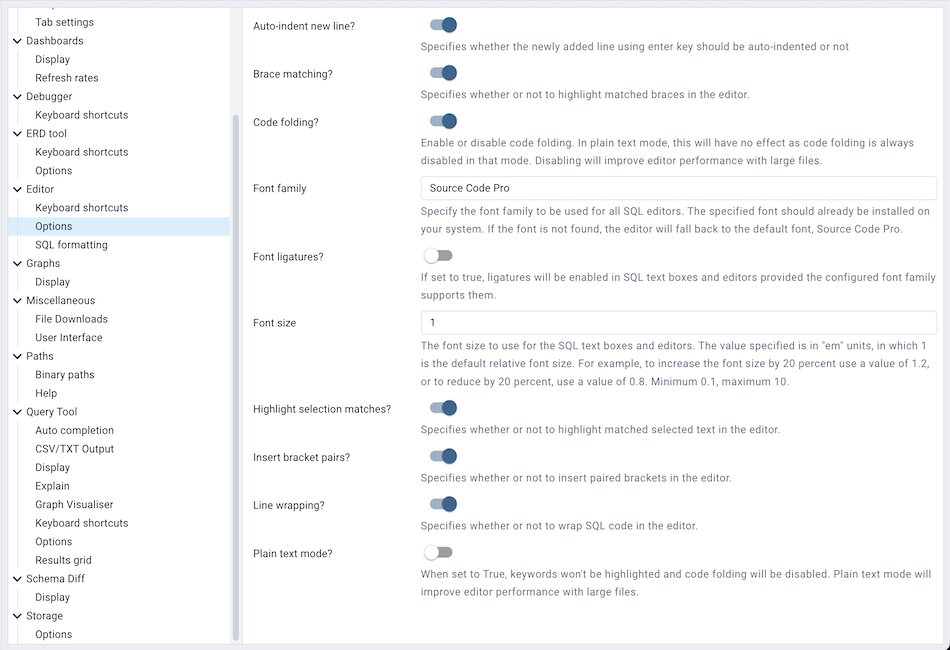
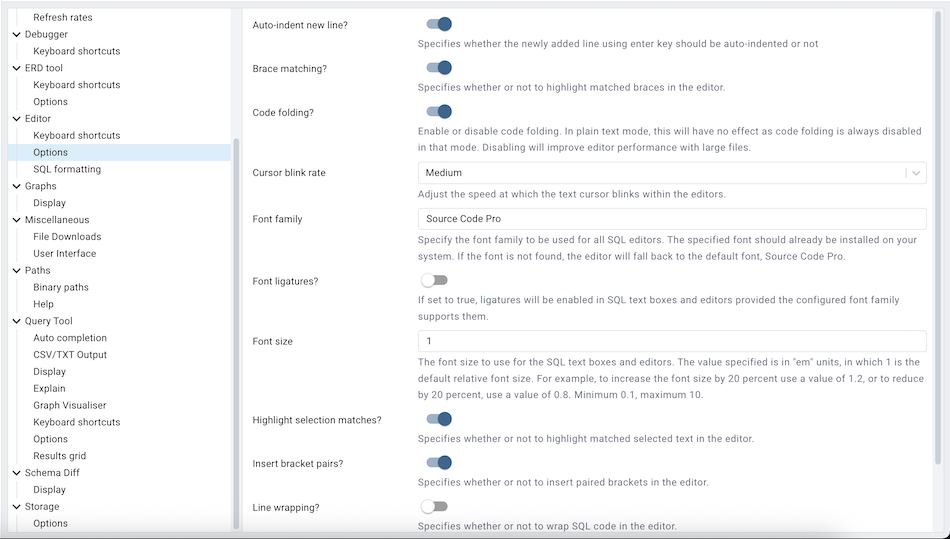
Add support for changing cursor blink rate within the editors. #8712

diff --git a/web/pgadmin/static/js/components/ReactCodeMirror/components/Editor.jsx b/web/pgadmin/static/js/components/ReactCodeMirror/components/Editor.jsx
@@ -120,7 +120,6 @@ function insertTabWithUnit({ state, dispatch }) {
 /* React wrapper for CodeMirror */
 const defaultExtensions = [
   highlightSpecialChars(),
-  drawSelection(),
   rectangularSelection(),
   dropCursor(),
   crosshairCursor(),
@@ -398,6 +397,16 @@ export default function Editor({
         },
       }));
     }
+
+    const CURSOR_BLINK_RATE_MAP = {
+      'none': 0,
+      'slow': 1800,
+      'medium': 1200,
+      'fast': 600,
+    };
+    newConfigExtn.push(drawSelection({
+      cursorBlinkRate: CURSOR_BLINK_RATE_MAP[editorPref.cursor_blink_rate] ?? 1200
+    }));
 
     // add fold service conditionally
     if(!editorPref.plain_editor_mode && editorPref.code_folding && language == 'pgsql') {

diff --git a/web/pgadmin/browser/register_editor_preferences.py b/web/pgadmin/browser/register_editor_preferences.py
@@ -151,6 +151,24 @@ def register_editor_preferences(self, migration_gettext=None):
     )
 
     self.editor_preference.register(
+        'options', 'cursor_blink_rate',
+        gettext("Cursor blink rate"), 'options', 'medium',
+        category_label=PREF_LABEL_OPTIONS,
+        options=[{'label': gettext('None'), 'value': 'none'},
+                 {'label': gettext('Slow'), 'value': 'slow'},
+                 {'label': gettext('Medium'), 'value': 'medium'},
+                 {'label': gettext('Fast'), 'value': 'fast'}],
+        control_props={
+            'allowClear': False,
+            'creatable': False,
+        },
+        help_str=gettext(
+            'Adjust the speed at which the text cursor blinks within '
+            'the editors.'
+        )
+    )
+
+    self.editor_preference.register(
         'options', 'wrap_code',
         gettext("Line wrapping?"), 'boolean', False,
         category_label=PREF_LABEL_OPTIONS,

diff --git a/docs/en_US/preferences.rst b/docs/en_US/preferences.rst
@@ -292,6 +292,9 @@ Use the fields on the *Options* panel to manage editor preferences.
 * When the *Code folding?* switch is set to *False*, the editor will disable
   code folding. Disabling will improve editor performance with large files.
 
+* Use the *Cursor blink rate* field to adjust the speed at which the text cursor
+  blinks within the editors.
+
 * Use the *Font family* field to be used for all SQL editors. The specified
   font should already be installed on your system. If the font is not found,
   the editor will fall back to the default font, Source Code Pro.
